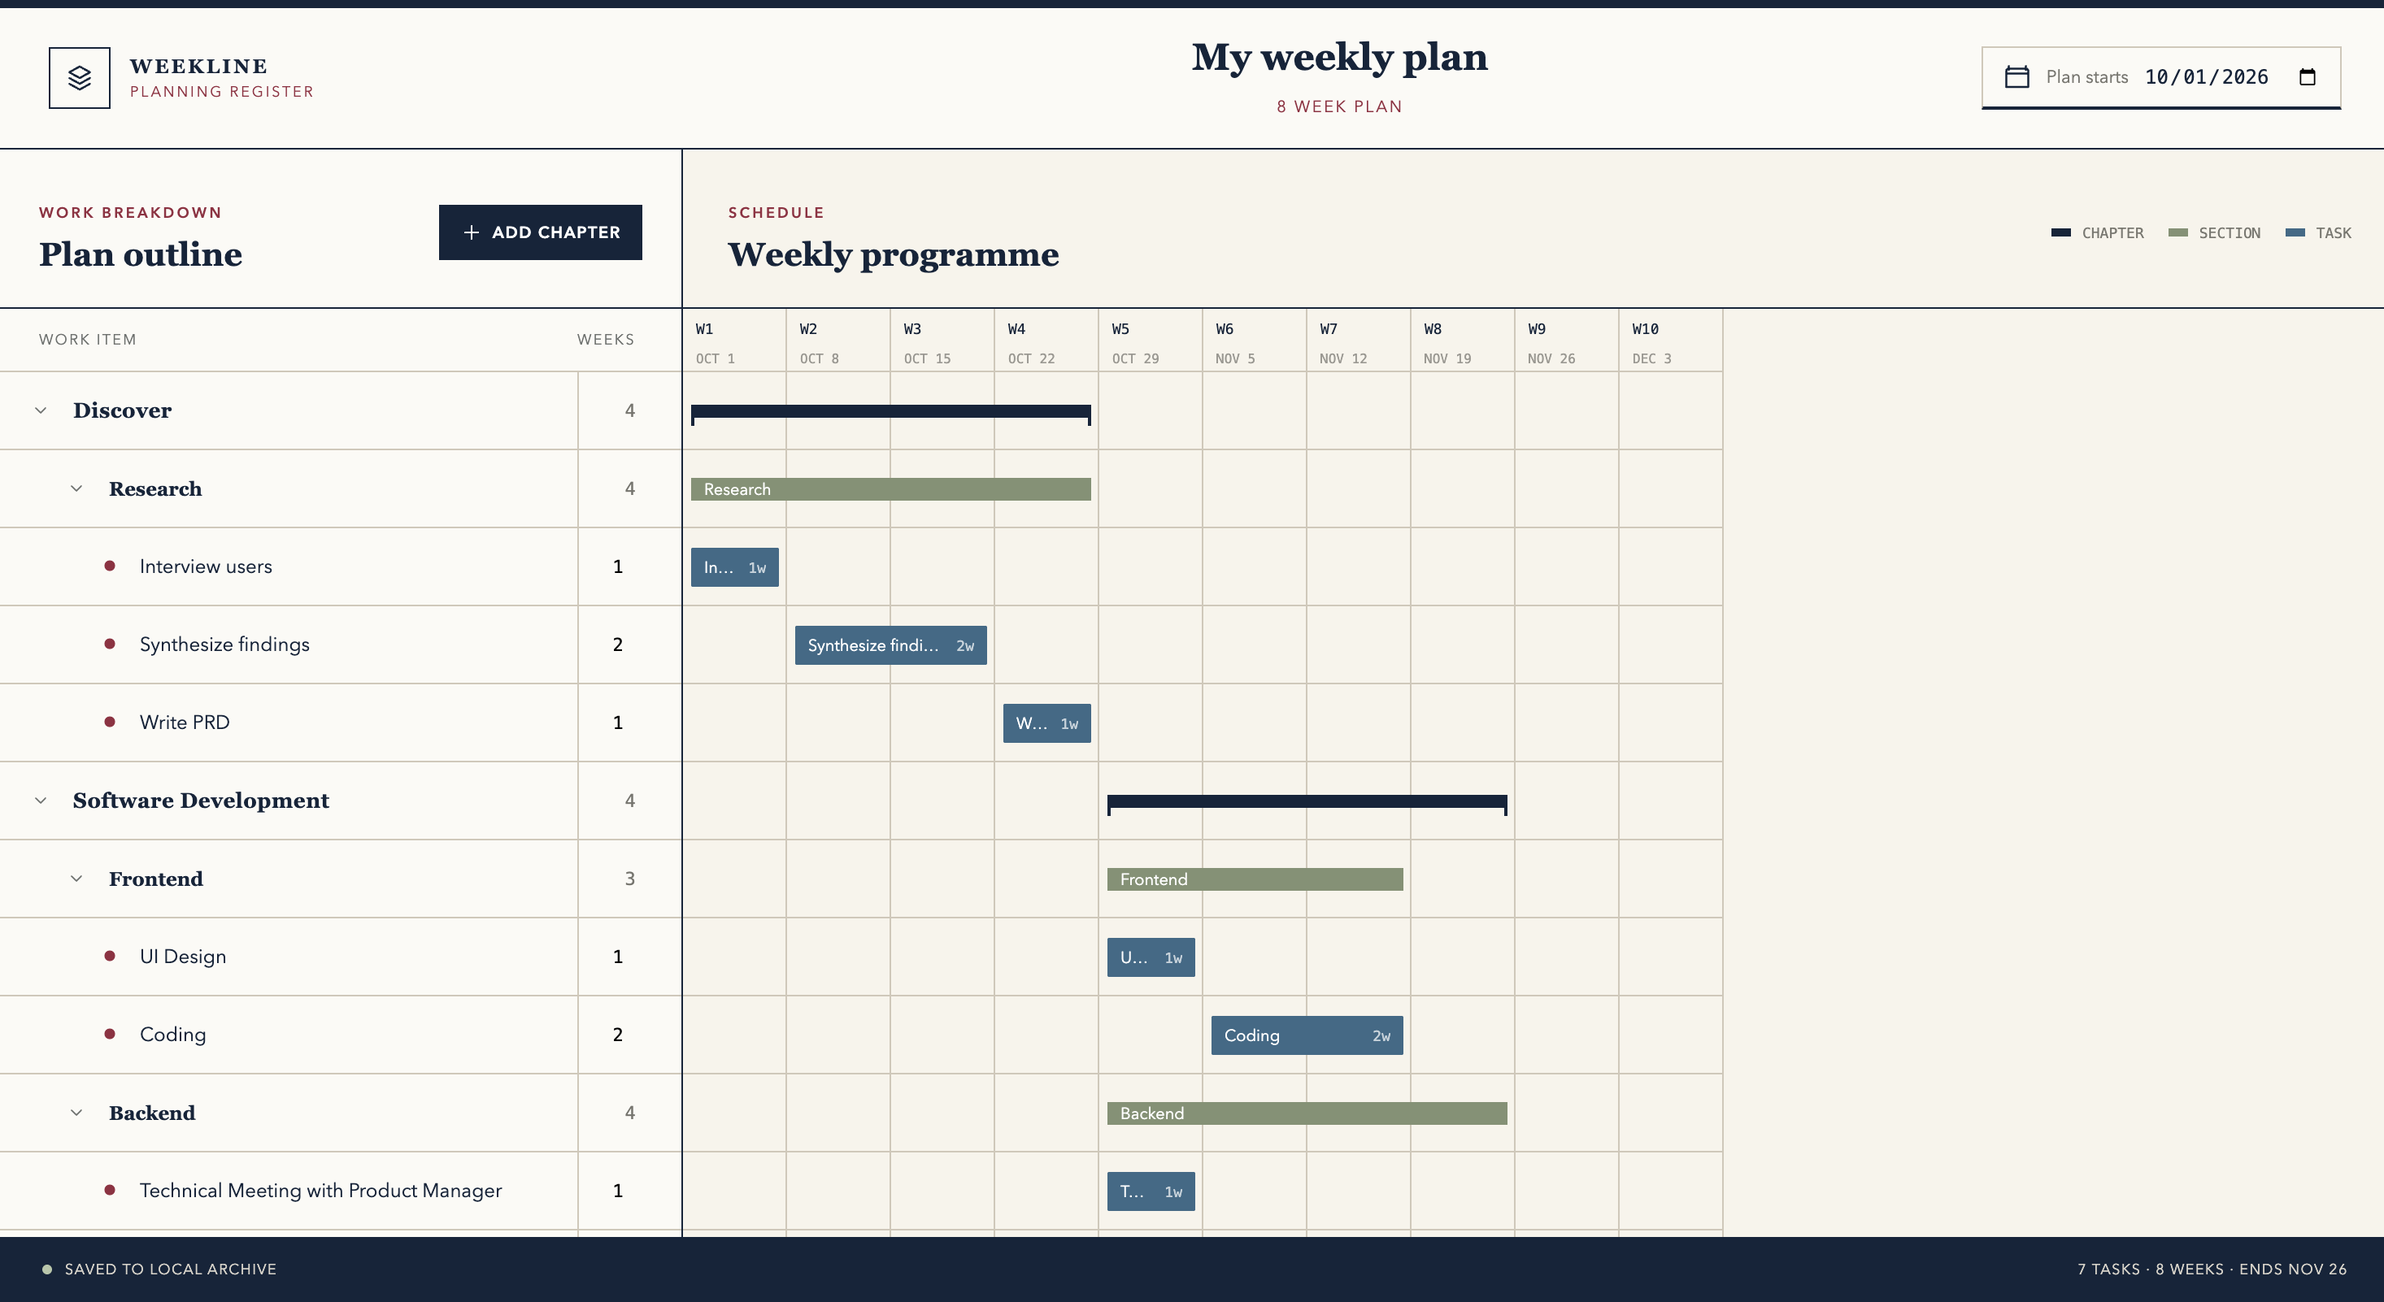
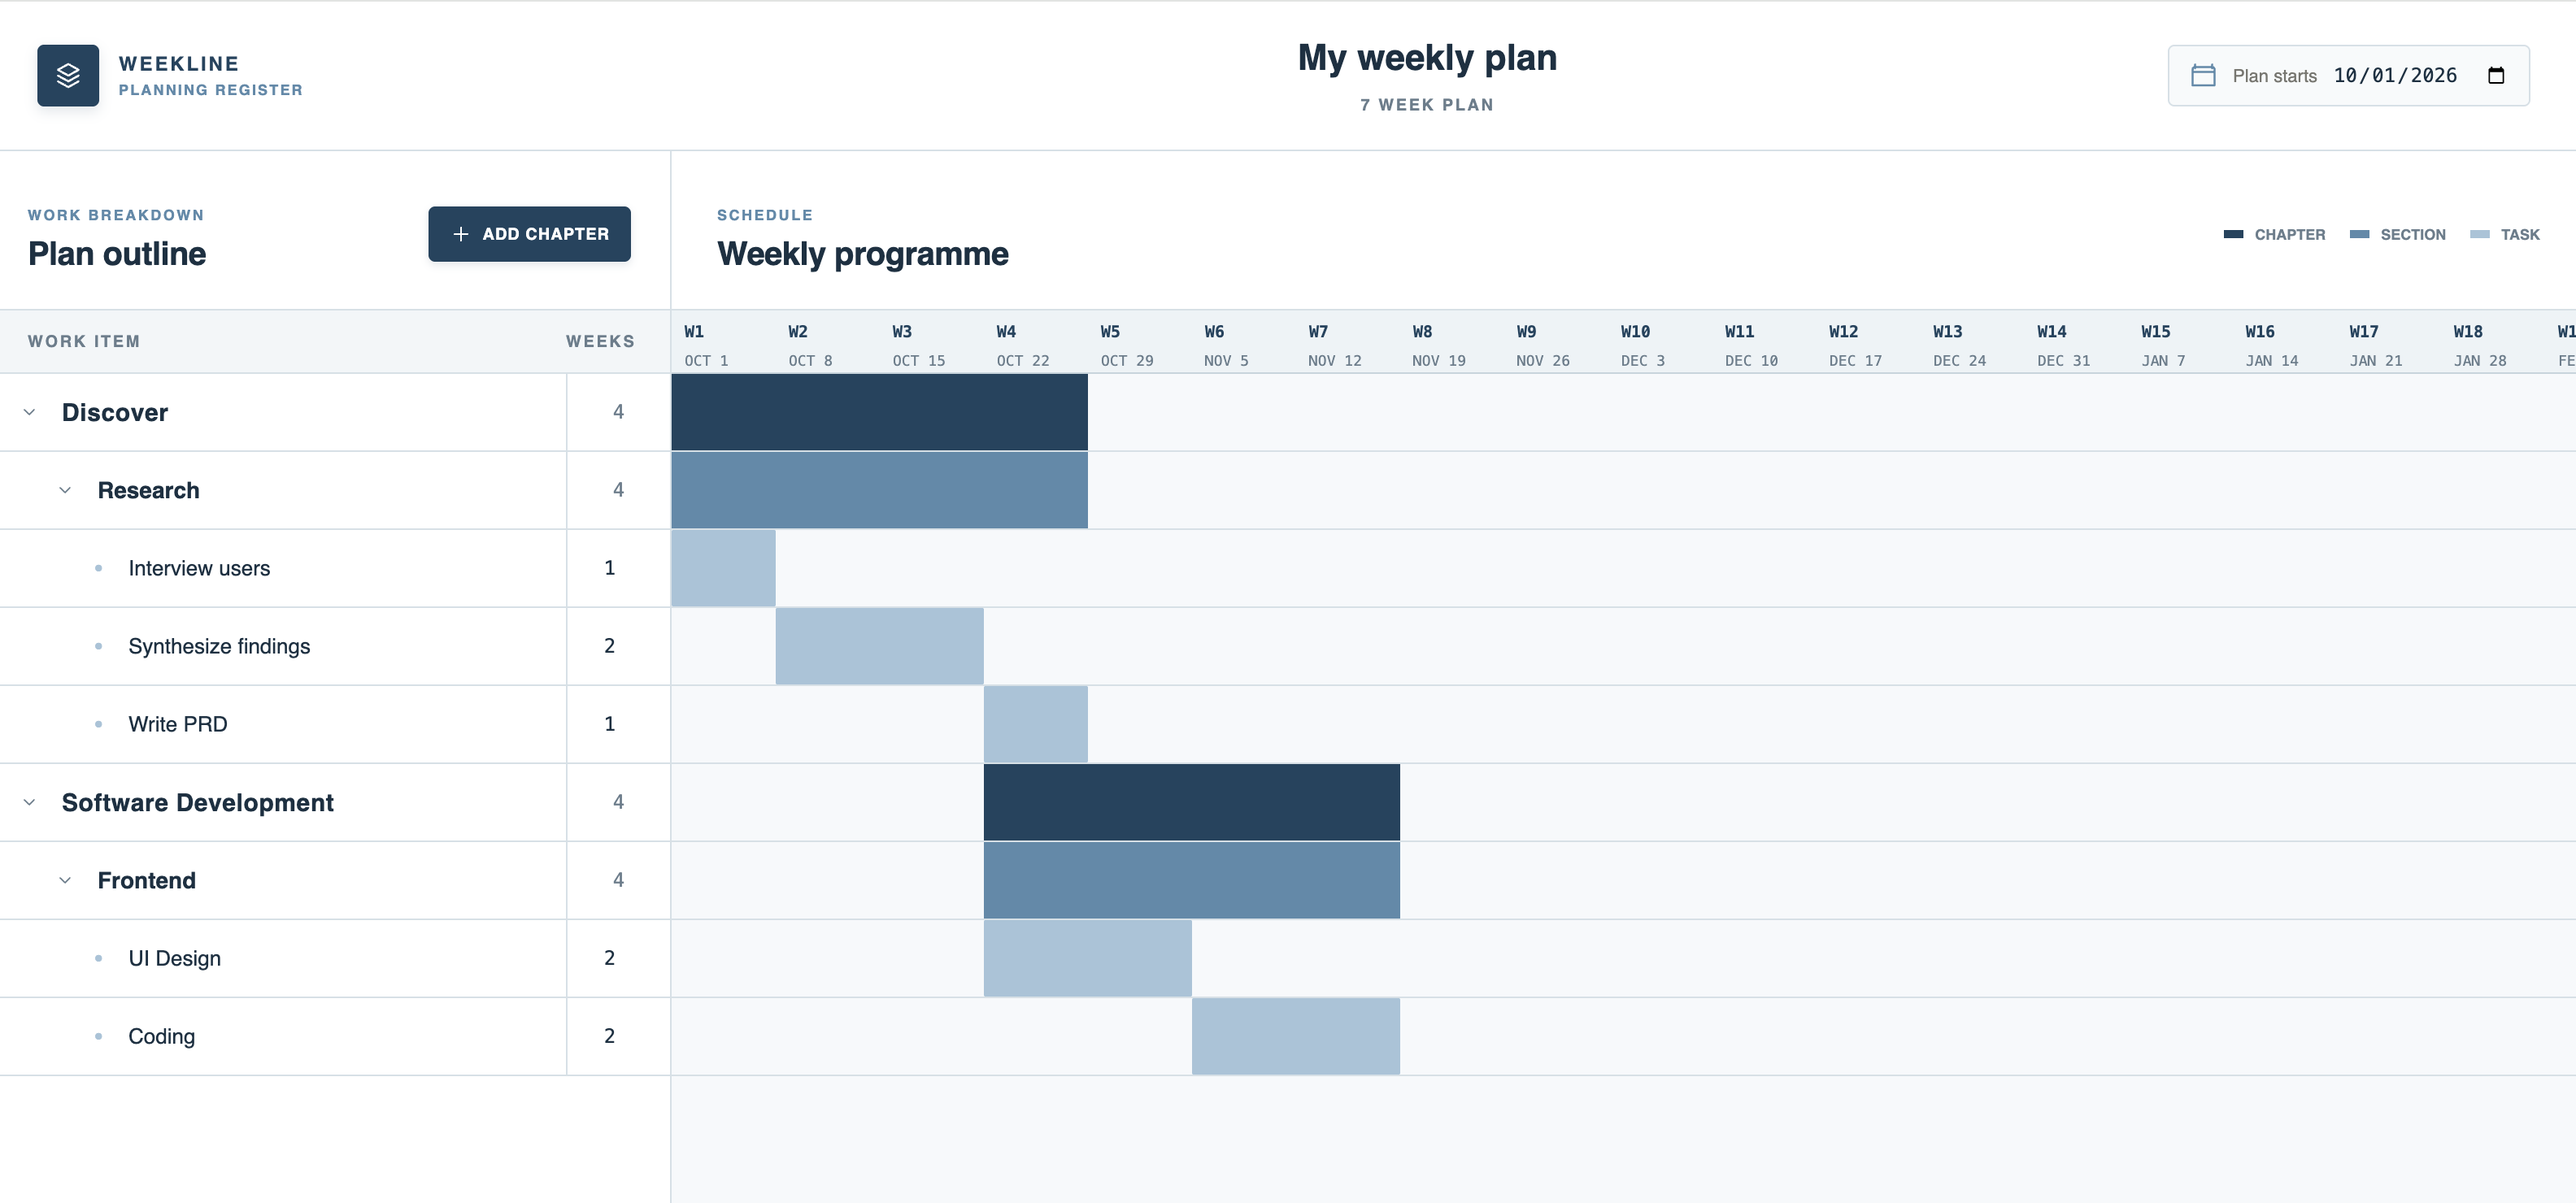
feat: change gantt ui design to blue business style

diff --git a/src/styles.css b/src/styles.css
@@ -238,6 +238,25 @@ h2 { font: 600 20px Georgia, serif; letter-spacing: 0; }
 .bar { cursor: default; }
 .empty-marker { cursor: default; }
 
+/* Full-row Gantt treatment. */
+.week-header div, .grid-lines i { border-right: 0; }
+.bar {
+  top: 0;
+  height: 100%;
+  border-radius: 0;
+}
+.bar.chapter,
+.bar.section,
+.bar.task {
+  top: 0;
+  height: 100%;
+}
+.bar.chapter { padding: 0 8px; background: #26435f; color: white; }
+.bar.chapter::before, .bar.chapter::after { content: none; }
+.bar.section { background: #6389aa; color: white; }
+.bar.task { background: #aac3d9; color: #17243a; }
+.bar:hover { transform: none; }
+
 /* Keep the outline and timeline on one responsive vertical rhythm. */
 :root {
   --topbar-height: 92px;
@@ -298,3 +317,194 @@ main { height: 100dvh; min-height: 0; overflow: hidden; }
   .workspace { grid-template-columns: clamp(340px, 38vw, 390px) minmax(0, 1fr); }
   .topbar { grid-template-columns: 250px minmax(240px, 1fr) auto; padding-inline: 18px; }
 }
+
+/* Business blue interface */
+:root {
+  --ink: #1d3042;
+  --muted: #6c7d8c;
+  --paper: #f3f6f8;
+  --sheet: #ffffff;
+  --rule: #d7e0e7;
+  --accent: #426f94;
+  --navy: #26435f;
+  --blue: #6389aa;
+  --light-blue: #aac3d9;
+  font-family: Inter, "Segoe UI", Roboto, Helvetica, Arial, sans-serif;
+  color: var(--ink);
+  background: var(--paper);
+}
+
+body { background: var(--paper); }
+
+.topbar {
+  border-top: 0;
+  border-bottom: 1px solid var(--rule);
+  background: var(--sheet);
+  box-shadow: 0 1px 3px #1d30420a;
+}
+.brand {
+  gap: 12px;
+  color: var(--navy);
+  font: 700 12px/1.1 Inter, "Segoe UI", sans-serif;
+  letter-spacing: .12em;
+}
+.brand em {
+  color: var(--blue);
+  font: 600 9px/1 Inter, "Segoe UI", sans-serif;
+  letter-spacing: .12em;
+}
+.brandmark {
+  border: 0;
+  border-radius: 4px;
+  background: var(--navy);
+  color: white;
+  box-shadow: 0 3px 8px #26435f24;
+}
+.project-title input {
+  color: var(--ink);
+  font: 600 22px Inter, "Segoe UI", sans-serif;
+}
+.project-title span {
+  color: var(--muted);
+  font-family: Inter, "Segoe UI", sans-serif;
+  font-size: 10px;
+  font-weight: 600;
+}
+.start-control {
+  border: 1px solid var(--rule);
+  border-radius: 4px;
+  background: #f8fafb;
+  box-shadow: none;
+}
+.start-control svg { color: var(--blue); }
+.start-control input { color: var(--ink); }
+
+.workspace { background: var(--paper); }
+.outline {
+  border-right: 1px solid var(--rule);
+  background: var(--sheet);
+}
+.timeline { background: #f7f9fb; }
+.panel-heading, .timeline-top {
+  border-bottom: 1px solid var(--rule);
+  background: var(--sheet);
+}
+.eyebrow {
+  color: var(--blue);
+  font-family: Inter, "Segoe UI", sans-serif;
+  font-weight: 700;
+  letter-spacing: .14em;
+}
+h2 {
+  color: var(--ink);
+  font: 650 20px/1.2 Inter, "Segoe UI", sans-serif;
+  letter-spacing: -.015em;
+}
+.add-main, .add-children button {
+  border: 1px solid var(--navy);
+  border-radius: 4px;
+  background: var(--navy);
+  color: white;
+  font-weight: 650;
+  letter-spacing: .05em;
+  box-shadow: 0 2px 5px #26435f1f;
+}
+.add-main:hover, .add-children button:hover { background: #1f3850; }
+
+.column-head {
+  border-bottom: 1px solid var(--rule);
+  background: #f3f6f8;
+  color: var(--muted);
+  font-family: Inter, "Segoe UI", sans-serif;
+  font-size: 10px;
+  font-weight: 700;
+}
+.outline-row, .bar-row { border-bottom: 1px solid var(--rule); }
+.outline-row:hover, .outline-row.selected { background: #f4f8fb; }
+.outline-row.selected::before { background: var(--blue); }
+.chapter .item-name input,
+.section .item-name input,
+.task .item-name input {
+  color: var(--ink);
+  font-family: Inter, "Segoe UI", sans-serif;
+}
+.chapter .item-name input { font-size: 15px; font-weight: 700; }
+.section .item-name input { font-size: 14px; font-weight: 650; }
+.task .item-name input { font-size: 13px; font-weight: 500; }
+.task .type-mark { color: var(--light-blue); }
+.disclosure { color: var(--muted); }
+.disclosure:hover { color: var(--blue); }
+.duration-cell {
+  border-left: 1px solid var(--rule);
+  color: var(--muted);
+  font-size: 12px;
+}
+.duration-cell input { color: var(--ink); font-size: 12px; }
+.child-button, .more-button { color: #81909d; border-radius: 3px; }
+.child-button:hover, .more-button:hover { color: var(--navy); background: #e7eef3; }
+
+.week-header {
+  border-bottom: 1px solid #c8d4dd;
+  background: #eef3f6;
+}
+.week-header div, .grid-lines i { border-right: 0; }
+.week-header b { color: var(--navy); font-size: 10px; font-weight: 700; }
+.week-header span { color: var(--muted); font-size: 9px; }
+.legend { color: var(--muted); font-family: Inter, "Segoe UI", sans-serif; font-weight: 600; }
+.chapter-key { background: var(--navy); }
+.section-key { background: var(--blue); }
+.task-key { background: var(--light-blue); }
+.bar.chapter { background: var(--navy); }
+.bar.section { background: var(--blue); }
+.bar.task { background: var(--light-blue); color: var(--ink); }
+.bar { font-weight: 600; }
+.empty-marker { border-color: var(--blue); background: #f7f9fb; color: var(--blue); }
+.empty-marker.section { color: var(--blue); }
+.empty-marker.task { color: var(--light-blue); }
+
+.statusbar {
+  background: var(--navy);
+  color: #d9e4ec;
+  font-family: Inter, "Segoe UI", sans-serif;
+  letter-spacing: .06em;
+}
+.dot { background: #8fb3cf; }
+
+.inline-menu {
+  border: 1px solid #becbd5;
+  border-radius: 6px;
+  background: var(--sheet);
+  color: var(--ink);
+  box-shadow: 0 12px 32px #1d304229;
+}
+.inline-menu::before {
+  background: var(--sheet);
+  border-color: #becbd5;
+}
+.inline-menu-head { border-bottom-color: var(--rule); }
+.inline-menu-head span { color: var(--blue); }
+.inline-menu-head b { font: 650 14px Inter, "Segoe UI", sans-serif; }
+.inline-dates { font: 600 11px Inter, "Segoe UI", sans-serif; }
+.inline-dates em { background: #e7eef3; color: var(--navy); }
+.inline-menu .field > span { color: var(--ink); }
+.field select, .field input {
+  border: 1px solid #c8d4dd;
+  border-radius: 4px;
+  background: #fff;
+  color: var(--ink);
+}
+.field select:focus, .field input:focus {
+  border-color: var(--blue);
+  outline: 2px solid #6389aa24;
+}
+.field small { color: var(--muted); }
+.inline-delete { color: #9e4050; }
+
+.error {
+  border-radius: 4px;
+  background: var(--navy);
+  box-shadow: 0 8px 24px #1d304233;
+}
+.error button { color: #c8dceb; }
+.loading { color: var(--muted); }
+.loading span { border-color: var(--rule); border-top-color: var(--blue); }

diff --git a/src/App.jsx b/src/App.jsx
@@ -49,6 +49,7 @@ function App() {
   const [collapsed, setCollapsed] = useState(new Set())
   const [error, setError] = useState('')
   const [saving, setSaving] = useState(false)
+  const [timelineWidth, setTimelineWidth] = useState(0)
   const outlineScrollRef = useRef(null)
   const chartScrollRef = useRef(null)
 
@@ -57,7 +58,17 @@ function App() {
 
   const rows = useMemo(() => plan ? flatten(plan.items, collapsed) : [], [plan, collapsed])
   const allRows = useMemo(() => plan ? flatten(plan.items) : [], [plan])
-  const weeks = Math.max(8, (plan?.totalWeeks || 0) + 2)
+  const weeks = Math.max(8, (plan?.totalWeeks || 0) + 2, Math.ceil(timelineWidth / WEEK_WIDTH))
+
+  useEffect(() => {
+    const timeline = chartScrollRef.current
+    if (!plan || !timeline) return undefined
+    const updateWidth = () => setTimelineWidth(timeline.clientWidth)
+    updateWidth()
+    const observer = new ResizeObserver(updateWidth)
+    observer.observe(timeline)
+    return () => observer.disconnect()
+  }, [plan])
 
   const mutate = async (path, options) => {
     setSaving(true)
@@ -183,9 +194,7 @@ function App() {
               <div className="grid-lines">{Array.from({ length: weeks }, (_, index) => <i key={index} />)}</div>
               <div className="bars">
                 {rows.map((item) => <div key={item.id} className="bar-row">
-                  {item.durationWeeks > 0 && item.scheduled !== false && <div className={`bar ${item.type}`} style={{ left: item.startWeek * WEEK_WIDTH + 5, width: Math.max(item.durationWeeks * WEEK_WIDTH - 10, 14) }} title={`${item.name}: ${item.startDate} to ${item.endDate}`}>
-                    <span>{item.name}</span>{item.type === 'task' && <small>{item.durationWeeks}w</small>}
-                  </div>}
+                  {item.durationWeeks > 0 && item.scheduled !== false && <div className={`bar ${item.type}`} style={{ left: item.startWeek * WEEK_WIDTH, width: Math.max(item.durationWeeks * WEEK_WIDTH, 14) }} title={`${item.name}: ${item.startDate} to ${item.endDate}`} aria-label={`${item.name}: ${item.startDate} to ${item.endDate}`} />}
                   {((item.type !== 'task' && !item.durationWeeks) || (item.type === 'task' && item.scheduled === false)) && <div className={`empty-marker ${item.type}`} style={{ left: item.startWeek * WEEK_WIDTH + 25 }} title={item.type === 'task' ? `${item.name}: choose a predecessor` : `${item.name}: starts ${item.startDate}`}><span /></div>}
                 </div>)}
               </div>
